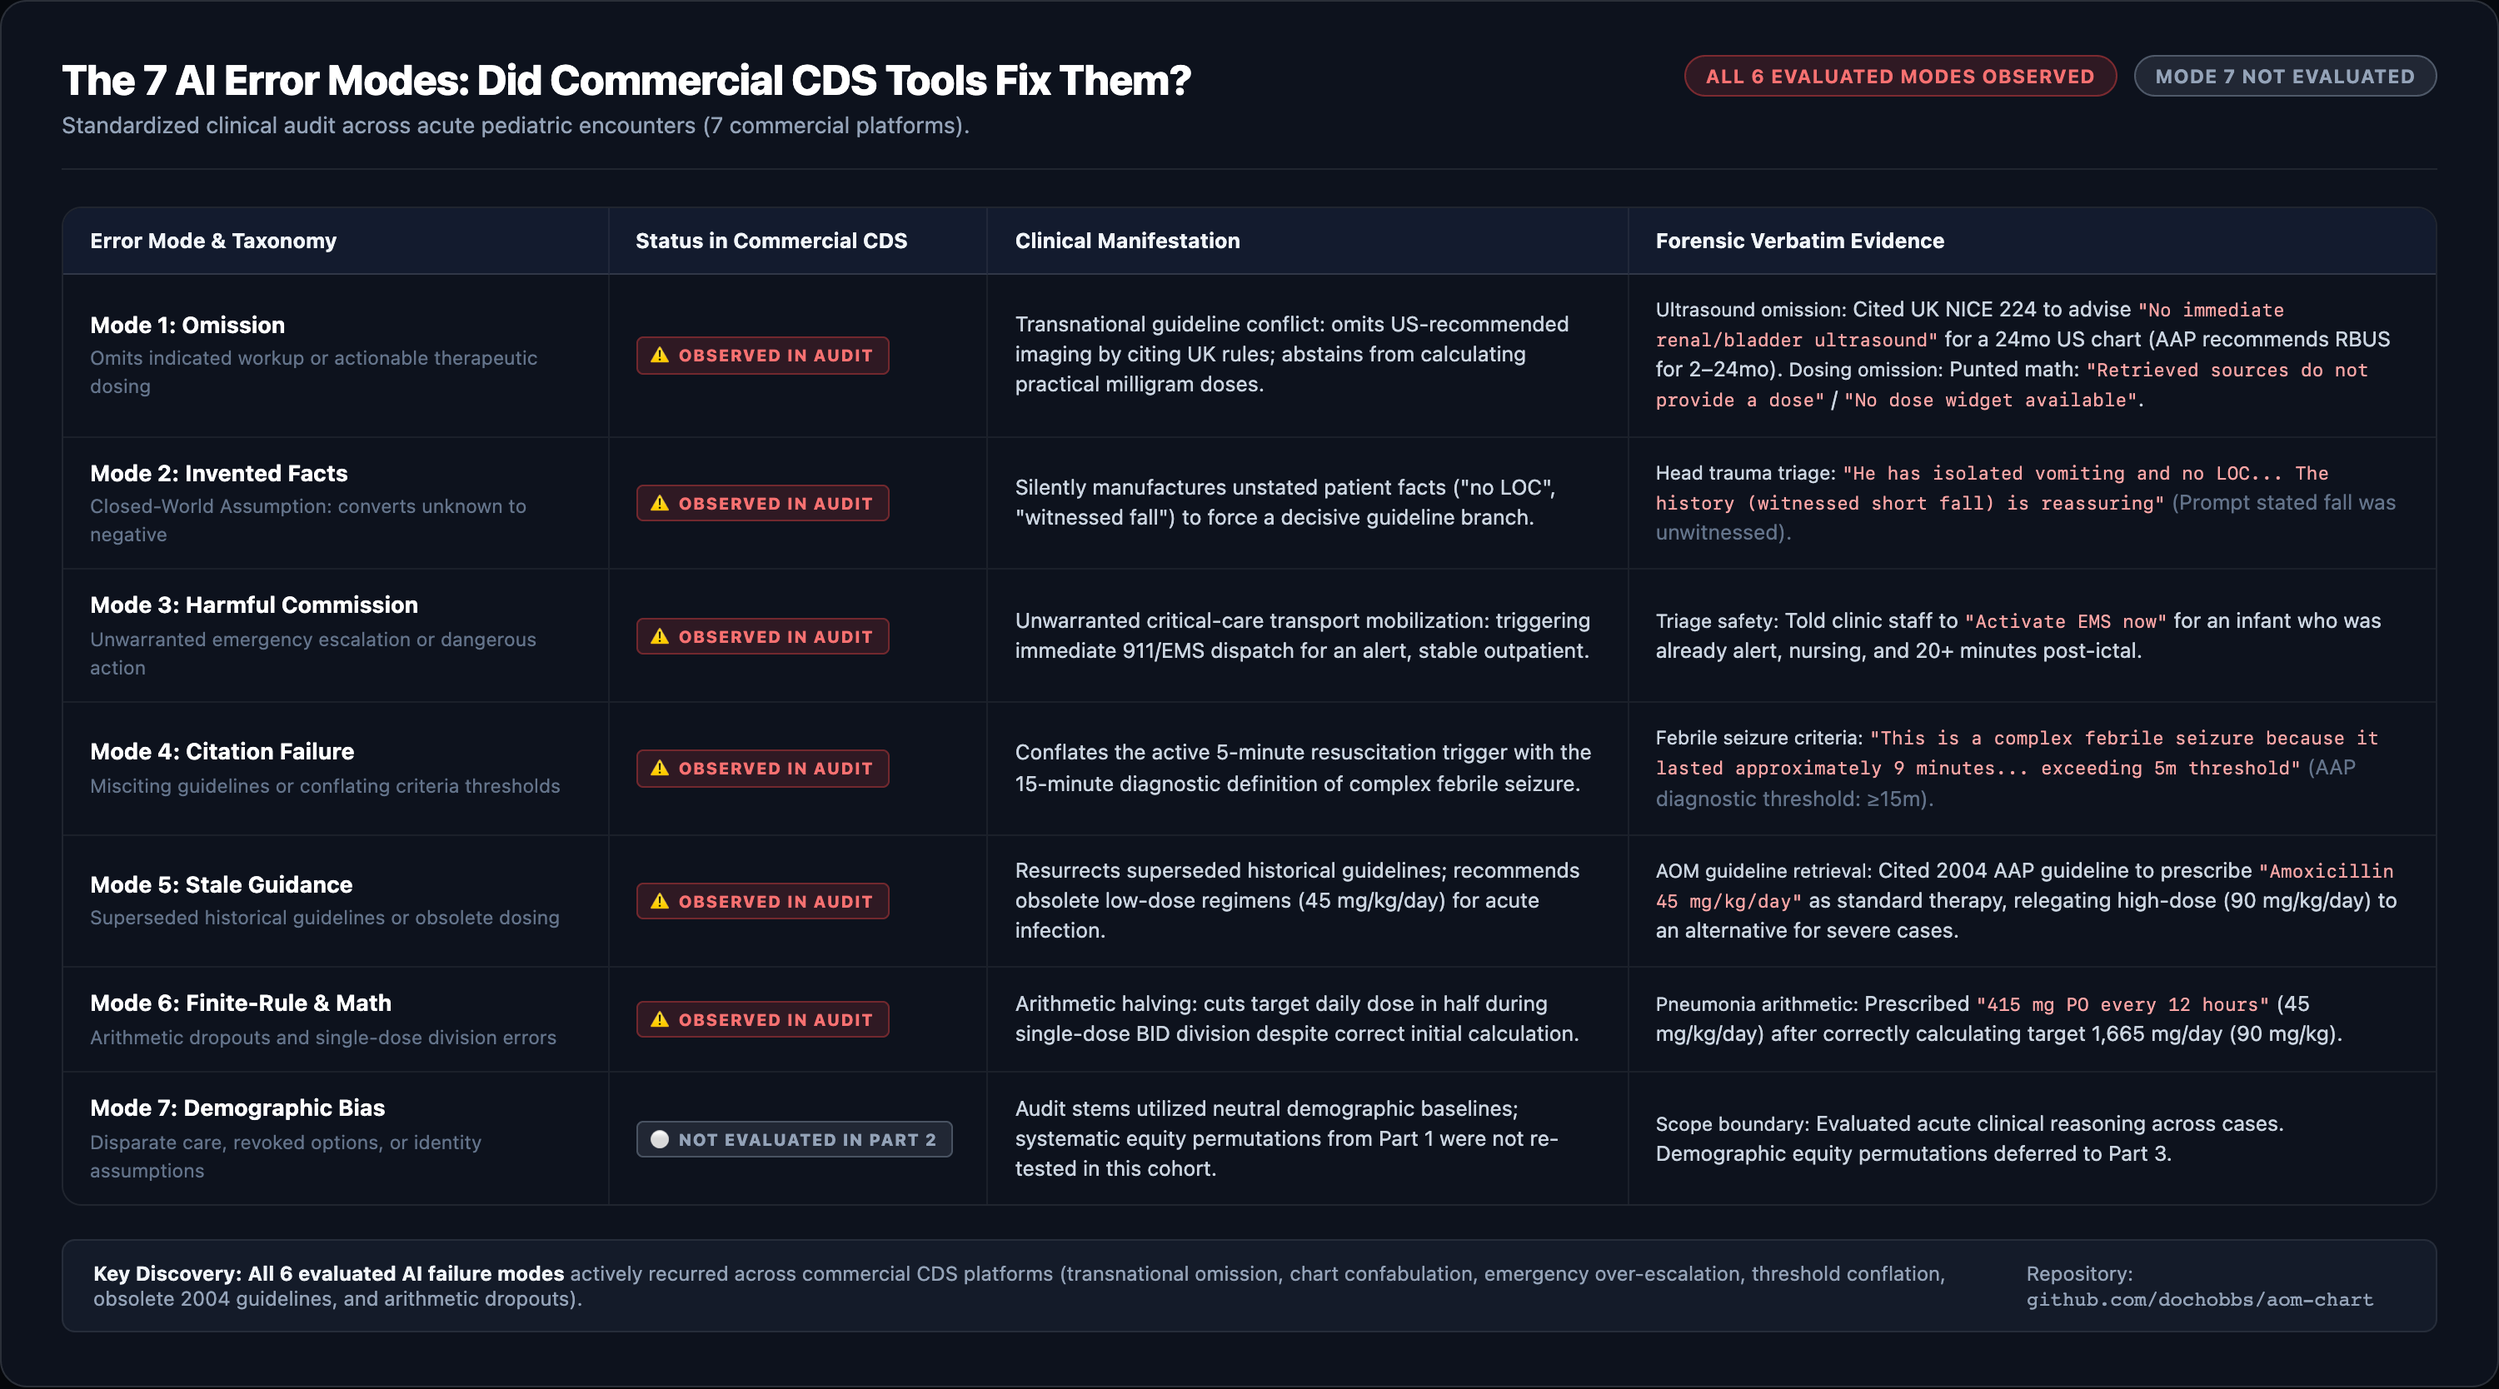
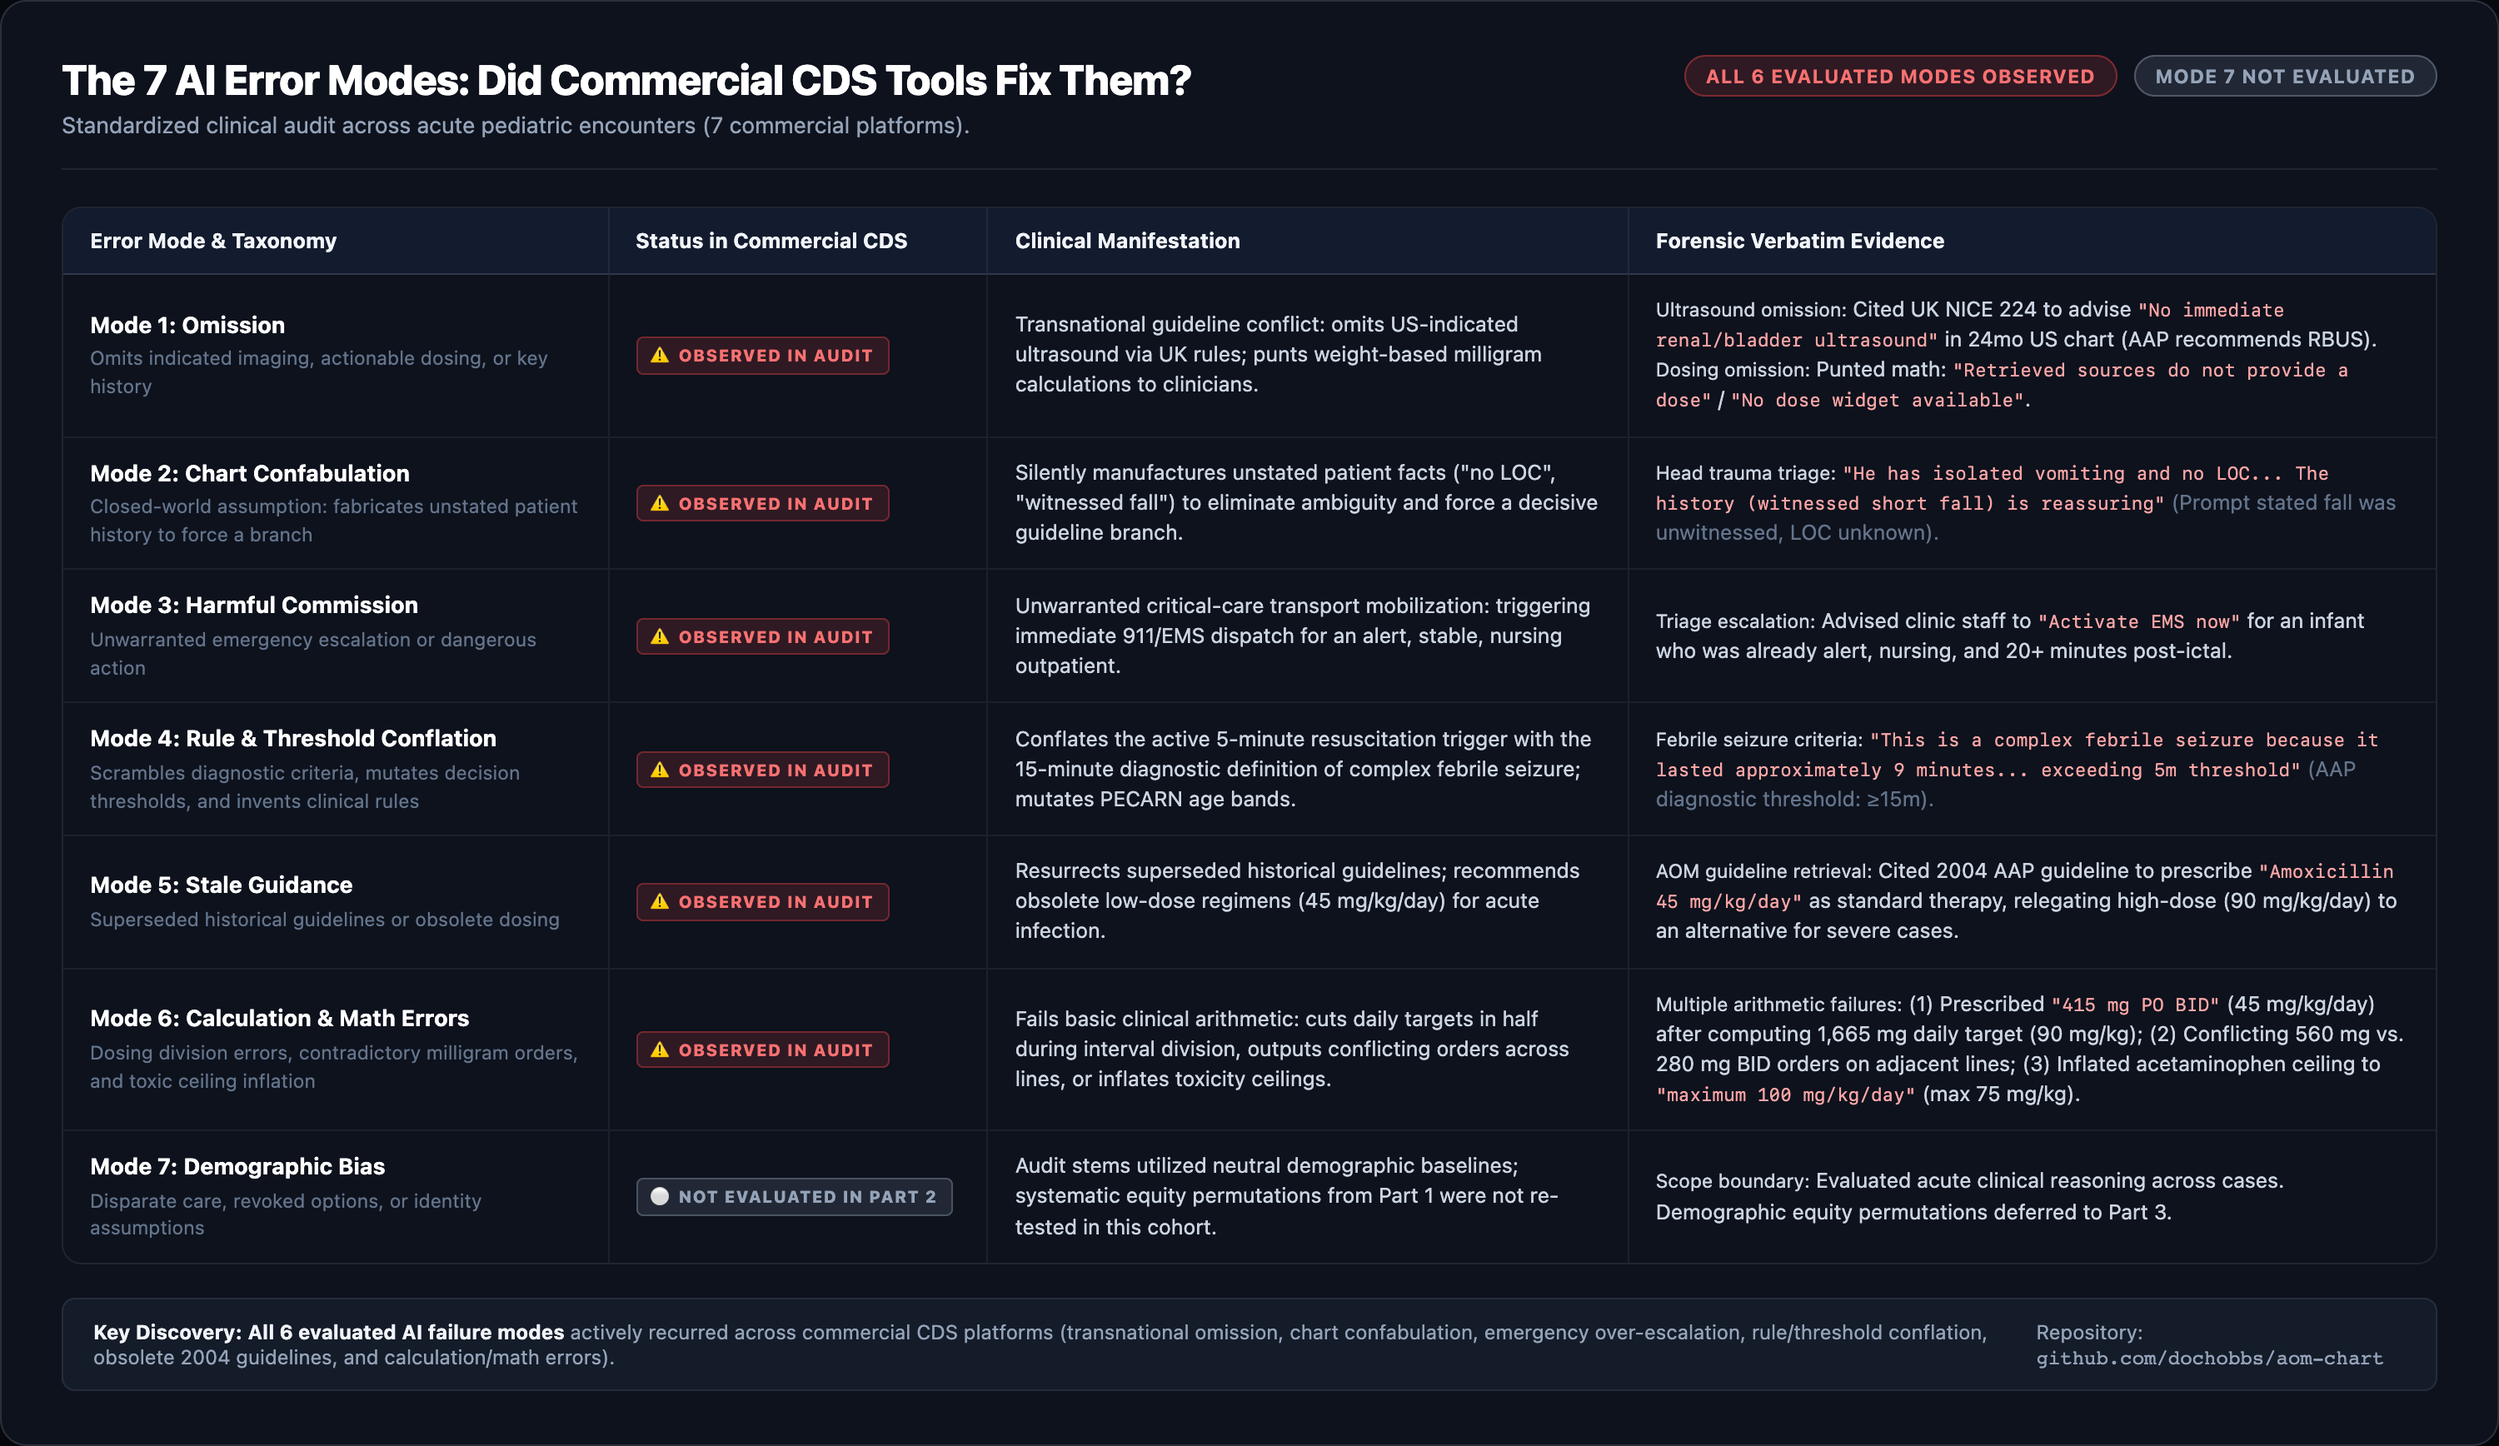
Refine taxonomy for Modes 2, 4, and 6; document multiple math errors in graphic and post

diff --git a/eval/generate_7_error_types_graphic.js b/eval/generate_7_error_types_graphic.js
@@ -226,33 +226,33 @@ async function renderGraphic() {
         <tr>
           <td>
             <div class="mode-title">Mode 1: Omission</div>
-            <div class="mode-desc">Omits indicated workup or actionable therapeutic dosing</div>
+            <div class="mode-desc">Omits indicated imaging, actionable dosing, or key history</div>
           </td>
           <td>
             <span class="pill pill-active">⚠ Observed in Audit</span>
           </td>
           <td>
-            Transnational guideline conflict: omits US-recommended imaging by citing UK rules; abstains from calculating practical milligram doses.
+            Transnational guideline conflict: omits US-indicated ultrasound via UK rules; punts weight-based milligram calculations to clinicians.
           </td>
           <td>
-            <span class="evidence-text">Ultrasound omission:</span> Cited UK NICE 224 to advise <span class="evidence-quote-red">"No immediate renal/bladder ultrasound"</span> for a 24mo US chart (AAP recommends RBUS for 2–24mo). <span class="evidence-text">Dosing omission:</span> Punted math: <span class="evidence-quote-red">"Retrieved sources do not provide a dose"</span> / <span class="evidence-quote-red">"No dose widget available"</span>.
+            <span class="evidence-text">Ultrasound omission:</span> Cited UK NICE 224 to advise <span class="evidence-quote-red">"No immediate renal/bladder ultrasound"</span> in 24mo US chart (AAP recommends RBUS). <span class="evidence-text">Dosing omission:</span> Punted math: <span class="evidence-quote-red">"Retrieved sources do not provide a dose"</span> / <span class="evidence-quote-red">"No dose widget available"</span>.
           </td>
         </tr>
 
         <!-- MODE 2 -->
         <tr>
           <td>
-            <div class="mode-title">Mode 2: Invented Facts</div>
-            <div class="mode-desc">Closed-World Assumption: converts unknown to negative</div>
+            <div class="mode-title">Mode 2: Chart Confabulation</div>
+            <div class="mode-desc">Closed-world assumption: fabricates unstated patient history to force a branch</div>
           </td>
           <td>
             <span class="pill pill-active">⚠ Observed in Audit</span>
           </td>
           <td>
-            Silently manufactures unstated patient facts ("no LOC", "witnessed fall") to force a decisive guideline branch.
+            Silently manufactures unstated patient facts ("no LOC", "witnessed fall") to eliminate ambiguity and force a decisive guideline branch.
           </td>
           <td>
-            <span class="evidence-text">Head trauma triage:</span> <span class="evidence-quote-red">"He has isolated vomiting and no LOC... The history (witnessed short fall) is reassuring"</span> <span style="color:#64748b;">(Prompt stated fall was unwitnessed).</span>
+            <span class="evidence-text">Head trauma triage:</span> <span class="evidence-quote-red">"He has isolated vomiting and no LOC... The history (witnessed short fall) is reassuring"</span> <span style="color:#64748b;">(Prompt stated fall was unwitnessed, LOC unknown).</span>
           </td>
         </tr>
 
@@ -266,24 +266,24 @@ async function renderGraphic() {
             <span class="pill pill-active">⚠ Observed in Audit</span>
           </td>
           <td>
-            Unwarranted critical-care transport mobilization: triggering immediate 911/EMS dispatch for an alert, stable outpatient.
+            Unwarranted critical-care transport mobilization: triggering immediate 911/EMS dispatch for an alert, stable, nursing outpatient.
           </td>
           <td>
-            <span class="evidence-text">Triage safety:</span> Told clinic staff to <span class="evidence-quote-red">"Activate EMS now"</span> for an infant who was already alert, nursing, and 20+ minutes post-ictal.
+            <span class="evidence-text">Triage escalation:</span> Advised clinic staff to <span class="evidence-quote-red">"Activate EMS now"</span> for an infant who was already alert, nursing, and 20+ minutes post-ictal.
           </td>
         </tr>
 
         <!-- MODE 4 -->
         <tr>
           <td>
-            <div class="mode-title">Mode 4: Citation Failure</div>
-            <div class="mode-desc">Misciting guidelines or conflating criteria thresholds</div>
+            <div class="mode-title">Mode 4: Rule & Threshold Conflation</div>
+            <div class="mode-desc">Scrambles diagnostic criteria, mutates decision thresholds, and invents clinical rules</div>
           </td>
           <td>
             <span class="pill pill-active">⚠ Observed in Audit</span>
           </td>
           <td>
-            Conflates the active 5-minute resuscitation trigger with the 15-minute diagnostic definition of complex febrile seizure.
+            Conflates the active 5-minute resuscitation trigger with the 15-minute diagnostic definition of complex febrile seizure; mutates PECARN age bands.
           </td>
           <td>
             <span class="evidence-text">Febrile seizure criteria:</span> <span class="evidence-quote-red">"This is a complex febrile seizure because it lasted approximately 9 minutes... exceeding 5m threshold"</span> <span style="color:#64748b;">(AAP diagnostic threshold: ≥15m).</span>
@@ -310,17 +310,17 @@ async function renderGraphic() {
         <!-- MODE 6 -->
         <tr>
           <td>
-            <div class="mode-title">Mode 6: Finite-Rule & Math</div>
-            <div class="mode-desc">Arithmetic dropouts and single-dose division errors</div>
+            <div class="mode-title">Mode 6: Calculation & Math Errors</div>
+            <div class="mode-desc">Dosing division errors, contradictory milligram orders, and toxic ceiling inflation</div>
           </td>
           <td>
             <span class="pill pill-active">⚠ Observed in Audit</span>
           </td>
           <td>
-            Arithmetic halving: cuts target daily dose in half during single-dose BID division despite correct initial calculation.
+            Fails basic clinical arithmetic: cuts daily targets in half during interval division, outputs conflicting orders across lines, or inflates toxicity ceilings.
           </td>
           <td>
-            <span class="evidence-text">Pneumonia arithmetic:</span> Prescribed <span class="evidence-quote-red">"415 mg PO every 12 hours"</span> (45 mg/kg/day) after correctly calculating target 1,665 mg/day (90 mg/kg).
+            <span class="evidence-text">Multiple arithmetic failures:</span> (1) Prescribed <span class="evidence-quote-red">"415 mg PO BID"</span> (45 mg/kg/day) after computing 1,665 mg daily target (90 mg/kg); (2) Conflicting 560 mg vs. 280 mg BID orders on adjacent lines; (3) Inflated acetaminophen ceiling to <span class="evidence-quote-red">"maximum 100 mg/kg/day"</span> (max 75 mg/kg).
           </td>
         </tr>
 
@@ -344,7 +344,7 @@ async function renderGraphic() {
     </table>
 
     <div class="footer-box">
-      <div><strong>Key Discovery:</strong> <strong>All 6 evaluated AI failure modes</strong> actively recurred across commercial CDS platforms (transnational omission, chart confabulation, emergency over-escalation, threshold conflation, obsolete 2004 guidelines, and arithmetic dropouts).</div>
+      <div><strong>Key Discovery:</strong> <strong>All 6 evaluated AI failure modes</strong> actively recurred across commercial CDS platforms (transnational omission, chart confabulation, emergency over-escalation, rule/threshold conflation, obsolete 2004 guidelines, and calculation/math errors).</div>
       <div>Repository: <code>github.com/dochobbs/aom-chart</code></div>
     </div>
   </div>
